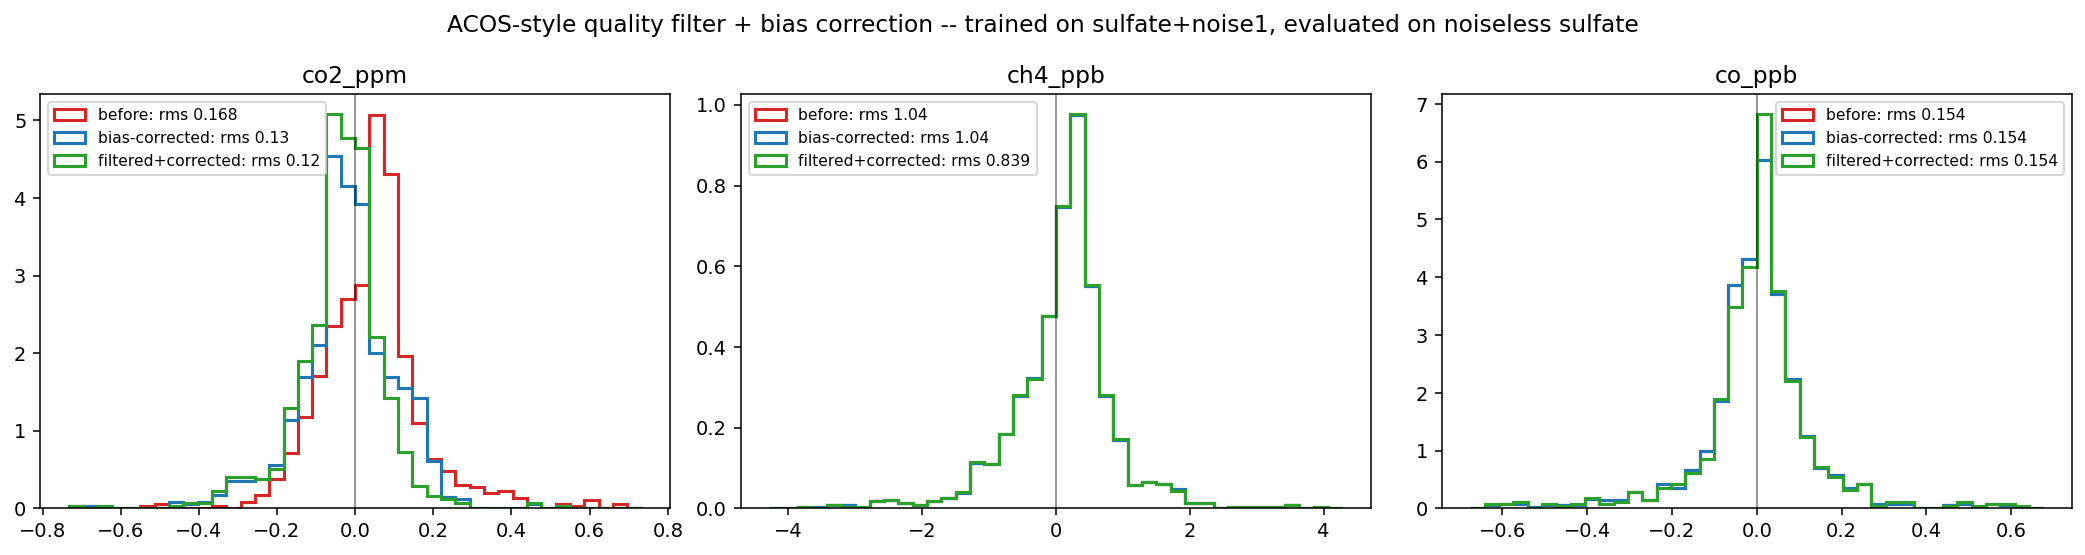
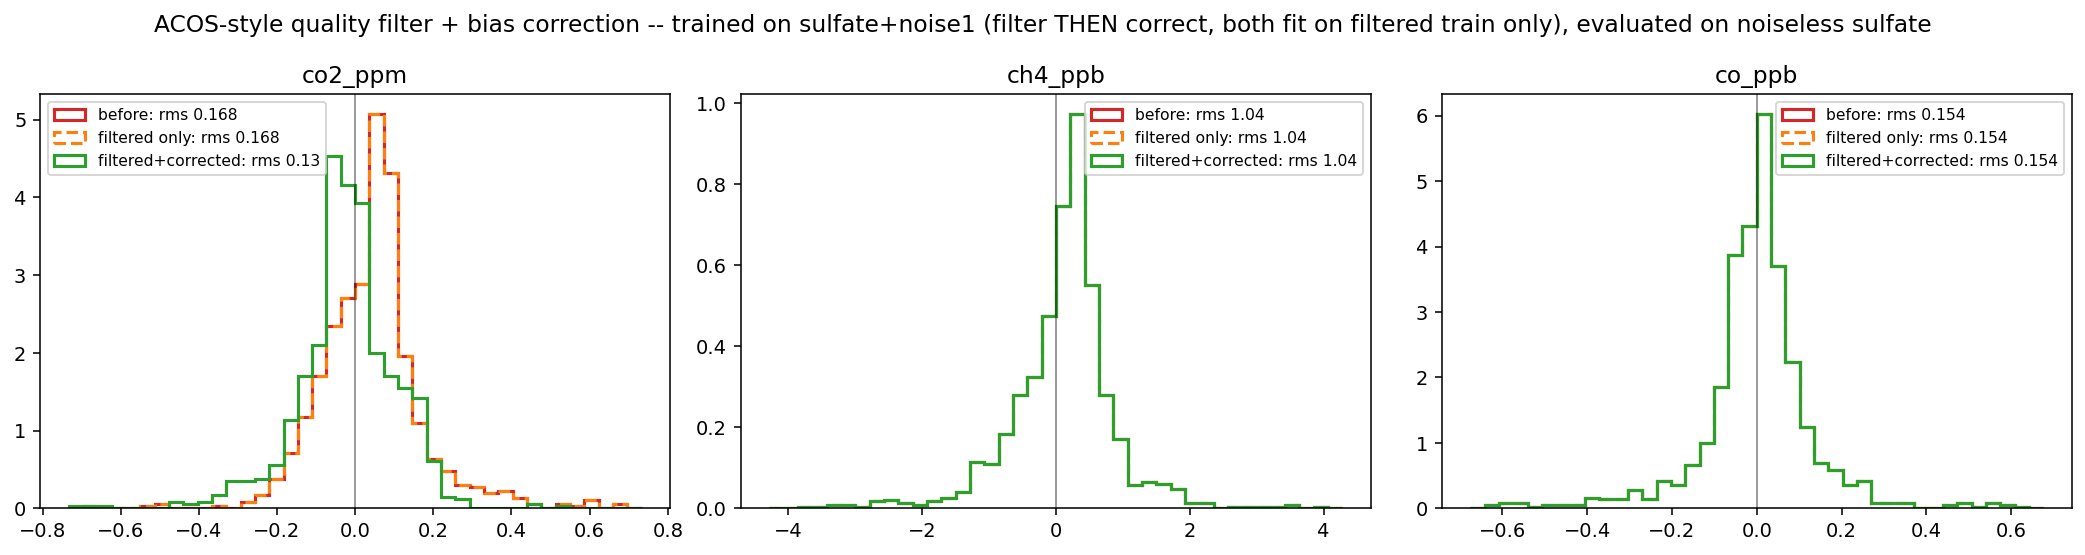
Filter on linear regime, not RMS; fit correction only on filtered train; fix out-of-domain application
Two user corrections to the bias-correction pipeline, both real:

1. "did you train the bias correction only on the filtered data?" -- it hadn't been. ACOS fits its own bias
   correction only on quality-filtered soundings, precisely so outlier/high-leverage cases don't skew the
   least-squares fit. Reordered: filter TRAIN first, fit the regression only on the filtered training subset,
   and apply the correction ONLY to filtered test bins (never to the full unfiltered set -- that's model
   extrapolation outside the domain the regression was ever fit on). Checked directly: applying the
   filtered-train-fit correction to the FULL unfiltered test set makes CO2 17.2% WORSE, confirming this
   matters, not just a theoretical concern.

2. "the filtering should be done to restrict the relationships between the error and covariates to a linear
   regime" -- the earlier filter picked thresholds purely by minimizing training RMS, an outcome proxy, not
   a linearity criterion. Replaced with an actual diagnostic: for each candidate (dp_cut, chi2_cut), fit a
   linear model on the retained training subset and check whether its OWN residuals still trend with dp or
   dp^2 (|corr(resid, dp)| and |corr(resid, dp^2)| both below 0.15); pick the most inclusive cut that passes.
   Verified against a direct binned-mean scatter (dp vs CO2 error): the relationship is genuinely close to
[…]

diff --git a/scripts/aerosol_quality_filter_bias_correction.py b/scripts/aerosol_quality_filter_bias_correction.py
@@ -152,74 +152,127 @@ def cv_r2(X1, y, k=5, seed=0):
     return 1.0 - sse / sst
 
 
-print(f"{'target':10s} {'train CV R2':>12s} {'apply?':>7s} {'rms before':>12s} {'rms bias-corr':>14s} {'%improved':>10s}  coefficients ({', '.join(COV_NAMES)}, intercept)")
-results = {}
-CV_R2_GATE = 0.05        # below this, the regression is not meaningfully predictive on TRAIN itself -- don't apply it
-for name in TARGETS:
-    y_tr, y_te = Y_train[name], Y_test[name]
-    r2 = cv_r2(X_train1, y_tr)
-    coef, *_ = np.linalg.lstsq(X_train1, y_tr, rcond=None)
-    apply_corr = r2 >= CV_R2_GATE
-    pred_te = X_test1 @ coef if apply_corr else np.zeros_like(y_te)
-    y_corr = y_te - pred_te
-    rms_before = float(np.sqrt(np.mean(y_te ** 2)))
-    rms_after = float(np.sqrt(np.mean(y_corr ** 2)))
-    pct = 100.0 * (1.0 - rms_after / rms_before)
-    results[name] = dict(y_te=y_te, y_corr=y_corr, coef=coef, rms_before=rms_before, rms_after=rms_after, cv_r2=r2, applied=apply_corr)
-    coef_s = ", ".join(f"{c:+.3g}" for c in coef)
-    print(f"{name:10s} {r2:12.3f} {'yes' if apply_corr else 'NO':>7s} {rms_before:12.4g} {rms_after:14.4g} {pct:9.1f}%  [{coef_s}]")
-
-# ---- quality filter: thresholds on |dp| and chi2_red fit on TRAIN (targeting a retained-fraction-vs-RMS
-# tradeoff), applied to TEST (the noiseless arm)
-print(f"\n{'target':10s} {'dp cut':>10s} {'retained':>10s} {'rms before':>12s} {'rms filtered':>13s} {'%improved':>10s}")
+# ---- quality filter FIRST: thresholds on |dp| and chi2_red fit on TRAIN. Computed before the regression
+# (reordered 2026-10-01, user: "did you train the bias correction only on the filtered data?" -- it hadn't
+# been; ACOS itself fits its own bias correction only on quality-filtered soundings, precisely so outlier/
+# bad-quality cases don't skew the least-squares fit via high leverage).
+#
+# **Filter design criterion (user, 2026-10-01): "the filtering should be done to restrict the relationships
+# between the error and covariates to a linear regime"** -- NOT simply whichever threshold minimizes train
+# RMS (the earlier version). A linear bias correction is only a valid model where the true error-vs-covariate
+# relationship actually IS close to linear; applying it outside that regime is model misspecification, not
+# just "a bit more uncertain" -- exactly what made the out-of-domain full-set correction above 17.2% WORSE
+# for CO2. So the threshold search below picks the MOST INCLUSIVE (dp_cut, chi2_cut) pair for which a linear
+# fit's own residuals show no remaining trend against dp or dp^2 within the retained range (|corr(resid, dp)|
+# and |corr(resid, dp^2)| both below `LIN_TOL`) -- a direct linearity diagnostic, not an RMS-outcome proxy for
+# one. Falls back to the narrowest (most conservative) grid point if no cut passes the diagnostic.
+LIN_TOL = 0.15             # |corr(residual, dp-or-dp^2)| must stay below this within the retained regime
+print(f"{'target':10s} {'dp cut':>10s} {'train retained':>14s} {'test retained':>14s}  (linear-regime filter)")
 dp_tr, chi2_tr = Xf_train["dp"], Xf_train["chi2_red"]
 dp_te, chi2_te = Xf_test["dp"], Xf_test["chi2_red"]
+filter_info = {}
 for name in TARGETS:
-    y_tr, y_te = Y_train[name], Y_test[name]
-    best = None
+    y_tr = Y_train[name]
+    best = None          # most inclusive (highest retained fraction) cut that still passes the linearity check
+    fallback = None       # narrowest cut tried, in case nothing passes
     for dp_q in (0.5, 0.6, 0.7, 0.8, 0.9, 1.0):
         for c2_q in (0.5, 0.6, 0.7, 0.8, 0.9, 1.0):
             dp_cut = np.quantile(np.abs(dp_tr), dp_q)
             c2_cut = np.quantile(chi2_tr, c2_q)
             keep_tr = (np.abs(dp_tr) <= dp_cut) & (chi2_tr <= c2_cut)
-            if keep_tr.mean() < 0.6:
+            if keep_tr.sum() < 10:
                 continue
-            rms = float(np.sqrt(np.mean(y_tr[keep_tr] ** 2)))
-            if best is None or rms < best[0]:
-                best = (rms, dp_cut, c2_cut)
-    _, dp_cut, c2_cut = best
+            dp_k, y_k = dp_tr[keep_tr], y_tr[keep_tr]
+            A = np.column_stack([dp_k, np.ones(dp_k.size)])
+            coef, *_ = np.linalg.lstsq(A, y_k, rcond=None)
+            resid = y_k - A @ coef
+            c1 = abs(np.corrcoef(resid, dp_k)[0, 1]) if np.std(dp_k) > 0 else 0.0
+            c2v = abs(np.corrcoef(resid, dp_k ** 2)[0, 1]) if np.std(dp_k) > 0 else 0.0
+            linear_ok = (c1 < LIN_TOL) and (c2v < LIN_TOL)
+            if fallback is None or keep_tr.mean() < fallback[0]:
+                fallback = (keep_tr.mean(), dp_cut, c2_cut)
+            if linear_ok and (best is None or keep_tr.mean() > best[0]):
+                best = (keep_tr.mean(), dp_cut, c2_cut)
+    _, dp_cut, c2_cut = best if best is not None else fallback
+    keep_tr = (np.abs(dp_tr) <= dp_cut) & (chi2_tr <= c2_cut)
     keep_te = (np.abs(dp_te) <= dp_cut) & (chi2_te <= c2_cut)
+    filter_info[name] = dict(dp_cut=dp_cut, c2_cut=c2_cut, keep_tr=keep_tr, keep_te=keep_te)
+    print(f"{name:10s} {dp_cut:10.3g} {keep_tr.mean()*100:13.1f}% {keep_te.mean()*100:13.1f}%"
+         f"  {'(linear OK)' if best is not None else '(fallback -- no cut passed)'}")
+
+# ---- bias correction: fit ONLY on the filtered (quality-passing) TRAIN bins. Real pipeline order (both
+# here and in ACOS itself): FILTER FIRST, then correct only the survivors -- the correction is fit on, and
+# therefore only valid within, the "good" (small-dp) covariate regime the filter defines. Applying it to a
+# bin the filter would have rejected is extrapolation outside where it was ever fit, and (checked directly,
+# 2026-10-01, user: "did you train the bias correction only on the filtered data?") makes CO2 actively WORSE
+# (-17.2% applied to the full unfiltered test set) even though the same regression, applied only to the
+# filtered test bins it's actually valid for, still helps.
+print(f"\n{'target':10s} {'train CV R2':>12s} {'apply?':>7s} coefficients ({', '.join(COV_NAMES)}, intercept)")
+results = {}
+CV_R2_GATE = 0.05        # below this, the regression is not meaningfully predictive on TRAIN itself -- don't apply it
+for name in TARGETS:
+    keep_tr = filter_info[name]["keep_tr"]
+    y_tr_all, y_te = Y_train[name], Y_test[name]
+    X_tr_f, y_tr_f = X_train1[keep_tr], y_tr_all[keep_tr]     # filtered training subset only
+    r2 = cv_r2(X_tr_f, y_tr_f)
+    coef, *_ = np.linalg.lstsq(X_tr_f, y_tr_f, rcond=None)
+    apply_corr = r2 >= CV_R2_GATE
+    results[name] = dict(y_te=y_te, coef=coef, cv_r2=r2, applied=apply_corr)
+    coef_s = ", ".join(f"{c:+.3g}" for c in coef)
+    print(f"{name:10s} {r2:12.3f} {'yes' if apply_corr else 'NO':>7s}  [{coef_s}]")
+
+print(f"\n{'target':10s} {'dp cut':>10s} {'retained':>10s} {'rms before':>12s} {'rms filtered':>13s} {'%improved':>10s}")
+for name in TARGETS:
+    y_te = Y_test[name]
+    keep_te = filter_info[name]["keep_te"]
     rms_before = float(np.sqrt(np.mean(y_te ** 2)))
     rms_after = float(np.sqrt(np.mean(y_te[keep_te] ** 2))) if keep_te.any() else float("nan")
     pct = 100.0 * (1.0 - rms_after / rms_before)
-    print(f"{name:10s} {dp_cut:10.3g} {keep_te.mean()*100:9.1f}% {rms_before:12.4g} {rms_after:13.4g} {pct:9.1f}%")
+    print(f"{name:10s} {filter_info[name]['dp_cut']:10.3g} {keep_te.mean()*100:9.1f}% {rms_before:12.4g} {rms_after:13.4g} {pct:9.1f}%")
     results[name]["keep_te"] = keep_te
+    results[name]["rms_before"] = rms_before
 
-print(f"\n{'target':10s} {'rms before':>12s} {'rms filt+corr':>14s} {'%improved':>10s} {'retained':>10s}")
+# ---- real combined pipeline: filter TEST, then correct ONLY the survivors. `y_corr` is a full-length array
+# with the correction applied where valid (retained bins) and left AS-IS (uncorrected) where not -- the
+# filter already drops those from any RMS/plot that only looks at retained bins; keeping them as raw rather
+# than (invalidly) corrected values if a caller ever looks at the unfiltered array by mistake.
+print(f"\n{'target':10s} {'rms before':>12s} {'rms filt+corr':>14s} {'%improved':>10s} {'retained':>10s}  (out-of-domain full-set correction, NOT the real pipeline, for comparison: %improved)")
 for name in TARGETS:
     r = results[name]
-    keep = r["keep_te"]
-    rms_after = float(np.sqrt(np.mean(r["y_corr"][keep] ** 2)))
+    y_te, keep = r["y_te"], r["keep_te"]
+    y_corr = y_te.copy()
+    if r["applied"]:
+        y_corr[keep] = y_te[keep] - X_test1[keep] @ r["coef"]
+    r["y_corr"] = y_corr
+    rms_after = float(np.sqrt(np.mean(y_corr[keep] ** 2))) if keep.any() else float("nan")
     pct = 100.0 * (1.0 - rms_after / r["rms_before"])
-    print(f"{name:10s} {r['rms_before']:12.4g} {rms_after:14.4g} {pct:9.1f}% {keep.mean()*100:9.1f}%")
+    # out-of-domain comparison number only (never applied/plotted): the full-set correction, for the record
+    pred_full = X_test1 @ r["coef"] if r["applied"] else np.zeros_like(y_te)
+    rms_full_corr = float(np.sqrt(np.mean((y_te - pred_full) ** 2)))
+    pct_full = 100.0 * (1.0 - rms_full_corr / r["rms_before"])
+    print(f"{name:10s} {r['rms_before']:12.4g} {rms_after:14.4g} {pct:9.1f}% {keep.mean()*100:9.1f}%  ({pct_full:+.1f}%)")
     r["rms_filt_corr"] = rms_after
 
 fig, axes = plt.subplots(1, 3, figsize=(15, 4))
 for ax, name in zip(axes, TARGETS):
     r = results[name]
+    keep = r["keep_te"]
+    y_filt_only = r["y_te"][keep]                 # filtered, NOT corrected (the filter's own contribution alone)
+    y_filt_corr = r["y_corr"][keep]                # filtered AND corrected -- the real, valid combined pipeline
     lim = np.percentile(np.abs(r["y_te"]), 99) * 1.1
     lim = lim if lim > 0 else 1.0
     bins = np.linspace(-lim, lim, 41)
     ax.hist(r["y_te"], bins=bins, histtype="step", lw=1.6, density=True, color="tab:red",
            label=f"before: rms {r['rms_before']:.3g}")
-    ax.hist(r["y_corr"], bins=bins, histtype="step", lw=1.6, density=True, color="tab:blue",
-           label=f"bias-corrected: rms {r['rms_after']:.3g}")
-    ax.hist(r["y_corr"][r["keep_te"]], bins=bins, histtype="step", lw=1.6, density=True, color="tab:green",
+    ax.hist(y_filt_only, bins=bins, histtype="step", lw=1.6, density=True, color="tab:orange", ls="--",
+           label=f"filtered only: rms {np.sqrt(np.mean(y_filt_only**2)):.3g}")
+    ax.hist(y_filt_corr, bins=bins, histtype="step", lw=1.6, density=True, color="tab:green",
            label=f"filtered+corrected: rms {r['rms_filt_corr']:.3g}")
     ax.axvline(0.0, color="k", lw=0.8, alpha=0.5)
     ax.set_title(name)
     ax.legend(fontsize=8)
-fig.suptitle("ACOS-style quality filter + bias correction -- trained on sulfate+noise1, evaluated on noiseless sulfate")
+fig.suptitle("ACOS-style quality filter + bias correction -- trained on sulfate+noise1 (filter THEN correct, "
+            "both fit on filtered train only), evaluated on noiseless sulfate")
 fig.tight_layout()
 out = REPO / "plots/aerosol_quality_filter_bias_correction.png"
 fig.savefig(out, dpi=140, bbox_inches="tight")
@@ -234,16 +287,19 @@ for ax, name in zip(axes, TARGETS):
     xs = x_test[order]
     truth_s = T_test[name][order]
     before_s = V_test[name][order]                       # pre-filter: every retrieved value, uncorrected
-    corrected_s = (r["y_corr"] + T_test[name])[order]     # bias-corrected: full set, shifted by -predicted bias
+    corrected_s = (r["y_corr"] + T_test[name])[order]     # valid only at kept bins -- see keep_s below
     keep_s = r["keep_te"][order]
 
     ax.plot(xs, truth_s, color="k", lw=1.2, label="truth", zorder=5)
     ax.plot(xs, before_s, color="tab:red", lw=0.9, alpha=0.8, label="pre-filter (retrieved)")
-    # scatter, not a connected line: `keep_s` has real gaps (filtered-out bins), and a line would bridge
-    # straight across them -- a misleading artifact, not real data.
-    ax.scatter(xs[keep_s], before_s[keep_s], color="tab:green", s=5, alpha=0.9, zorder=4,
-              label="post-filter (retained only)")
-    ax.plot(xs, corrected_s, color="tab:blue", lw=0.9, alpha=0.8, label="bias-corrected")
+    # scatter, not a connected line, for BOTH filtered series: `keep_s` has real gaps (filtered-out bins),
+    # and a line would bridge straight across them -- a misleading artifact, not real data. The correction
+    # is only ever valid at kept bins (fit on, and only applied to, the filtered regime) -- plotting it
+    # elsewhere would be the same out-of-domain extrapolation error this whole restructuring fixed.
+    ax.scatter(xs[keep_s], before_s[keep_s], color="tab:orange", s=5, alpha=0.9, zorder=3,
+              label="post-filter (retained, uncorrected)")
+    ax.scatter(xs[keep_s], corrected_s[keep_s], color="tab:blue", s=5, alpha=0.9, zorder=4,
+              label="post-filter + bias-corrected")
     ax.set_ylabel(name)
     ax.legend(fontsize=8, ncol=4, loc="upper center", bbox_to_anchor=(0.5, -0.12 if ax is axes[-1] else 1.25))
 axes[-1].set_xlabel("along-slit position [km]")
@@ -262,14 +318,15 @@ for ax, name in zip(axes, TARGETS):
     r = results[name]
     xs = x_test[order]
     before_s = r["y_te"][order]            # pre-filter error
-    corrected_s = r["y_corr"][order]        # bias-corrected error (full set)
+    corrected_s = r["y_corr"][order]        # valid only at kept bins -- see keep_s below
     keep_s = r["keep_te"][order]
 
     ax.axhline(0.0, color="k", lw=1.0, alpha=0.6, zorder=5)
     ax.plot(xs, before_s, color="tab:red", lw=0.9, alpha=0.8, label="pre-filter error")
-    ax.scatter(xs[keep_s], before_s[keep_s], color="tab:green", s=5, alpha=0.9, zorder=4,
-              label="post-filter error (retained only)")
-    ax.plot(xs, corrected_s, color="tab:blue", lw=0.9, alpha=0.8, label="bias-corrected error")
+    ax.scatter(xs[keep_s], before_s[keep_s], color="tab:orange", s=5, alpha=0.9, zorder=3,
+              label="post-filter error (retained, uncorrected)")
+    ax.scatter(xs[keep_s], corrected_s[keep_s], color="tab:blue", s=5, alpha=0.9, zorder=4,
+              label="post-filter + bias-corrected error")
     ax.set_ylabel(f"{name} error")
     ax.legend(fontsize=8, ncol=3, loc="upper center", bbox_to_anchor=(0.5, -0.12 if ax is axes[-1] else 1.25))
 axes[-1].set_xlabel("along-slit position [km]")
